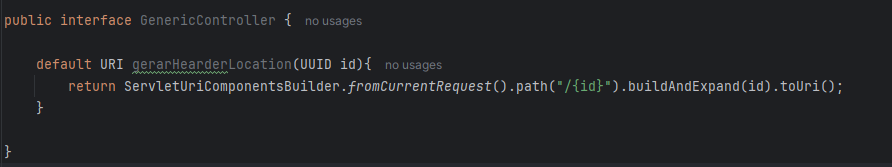
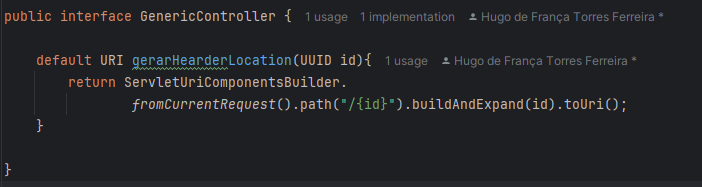
Desenvolvendo API

diff --git a/src/main/java/com/github/Hugoftf/Spring/JPA/controller/mappers/LivroMapper.java b/src/main/java/com/github/Hugoftf/Spring/JPA/controller/mappers/LivroMapper.java
@@ -14,13 +14,9 @@ import java.lang.annotation.Target;
 @Mapper(componentModel = "spring", uses = AutorMapper.class)
 public abstract class LivroMapper {
 
-
+    @Autowired
     AutorRepository autorRepository;
 
-    @Autowired
-    public void setAutorRepository(AutorRepository autorRepository) {
-        this.autorRepository = autorRepository;
-    }
 
     @Mapping(target = "idAutor",
             expression = "java( autorRepository.findById(dto.idAutor()).orElse(null) )")

diff --git a/src/main/java/com/github/Hugoftf/Spring/JPA/controller/GenericController.java b/src/main/java/com/github/Hugoftf/Spring/JPA/controller/GenericController.java
@@ -8,7 +8,8 @@ import java.util.UUID;
 public interface GenericController {
 
     default URI gerarHearderLocation(UUID id){
-        return ServletUriComponentsBuilder.fromCurrentRequest().path("/{id}").buildAndExpand(id).toUri();
+        return ServletUriComponentsBuilder.
+                fromCurrentRequest().path("/{id}").buildAndExpand(id).toUri();
     }
 
 }
